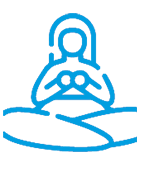
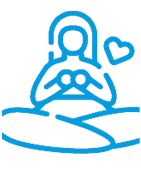
changes

diff --git a/freein-project/src/components/CardProfile/CardProfile-End.vue b/freein-project/src/components/CardProfile/CardProfile-End.vue
@@ -7,14 +7,14 @@
     <img class="img1" src="@/assets/Gourmet-Explorer.png" alt=""> 
   </div>
   <div class="circle2">
-    <img class="img2" src="@/assets/Relax.png" alt=""> 
+    <img class="img2" src="@/assets/donna.png" alt=""> 
   </div>
 </div>
 
     <div class="cards">
       <div class="arte">
         <div class="image1">
-          <img src="@/assets/Arte-&-Cultura.png" alt="">
+          <img src="@/assets/art.png" alt="">
         </div>
         <div class="cardcontainer1">
           <p>Arte & Cultura</p> 
@@ -38,7 +38,7 @@
       </div>
       <div class="relax">
         <div class="image3">
-          <img src="@/assets/Relax.png" alt="">
+          <img src="@/assets/relax.png" alt="">
         </div>
         <div class="cardcontainer2">
           <p>Relax</p> 
@@ -67,6 +67,11 @@
         <div class="text">
           <p>Lorem, ipsum dolor sit amet consectetur adipisicing elit. Neque rerum architecto officia necessitatibus vel dolorum provident quod ex atque magnam porro vero ratione, dolore accusantium!</p>
         </div>
+
+        <div class="button1">
+          <a href="#" class="button">portami alla mia hall</a>
+        </div>
+        
 </div>
 </template>
 
@@ -103,10 +108,10 @@ h1 {
   margin-top: 40px;
 }
 .img2 {
-  width: 131px;
+  width: 181px;
   height: 170px;
-  margin-left: 45px;
-  margin-top: 15px;
+  margin-left: 25px;
+  margin-top: 25px;
 }
 .cards {
   display: flex;
@@ -210,6 +215,27 @@ img {
   text-align: justify;
   margin-left: 320px;
   margin-right: 318px;
+}
+
+.button1 {
+  display: flex;
+  justify-content: center;
+  margin-top: 35px;
+}
+.button {
+  background-color: #ea5b0c;
+  border: none;
+  border-radius: 10px;
+  color: white;
+  padding: 15px 32px;
+  text-align: center;
+  text-transform: uppercase;
+  text-decoration: none;
+  display: inline-block;
+  font-size: 20px;
+  font-weight: bold;
+  margin: 4px 2px;
+  cursor: pointer;
 }
 </style>
 

diff --git a/freein-project/src/components/DashBoard/Dashboard1.vue b/freein-project/src/components/DashBoard/Dashboard1.vue
@@ -1,0 +1,110 @@
+<template>
+<div>
+
+<h1>il mio guadagno</h1>
+
+<div class="table1">
+    <table>
+      <tr>
+        <th>Pubblicazioni</th>
+        <th>Salvati</th>
+        <th>Mi piace</th>
+        <th>Guadagno</th>
+        <th>Valore in €</th>
+        <th>n.</th>
+      </tr>
+    
+      <tr>
+        <td>Itinerario</td>
+        <td>6</td>
+        <td>6</td>
+        <td>6 Passcoin</td>
+        <td>0,60</td>
+        <td>10</td>
+      </tr>
+    
+      <tr>
+        <td>Tappa</td>
+        <td>12</td>
+        <td>12</td>
+        <td>12 Passcoin</td>
+        <td>0,10</td>
+        <td>21</td>
+      </tr>
+    
+      <tr>
+        <td>Recensioni</td>
+        <td>1</td>
+        <td>1</td>
+        <td>1 Passcoin</td>
+        <td>0,05</td>
+        <td>3</td>
+      </tr>
+    </table>
+</div>
+
+<h1>La mia spesa</h1>
+
+<div class="table2">
+    <table>
+      <tr>
+        <th>Pubblicazioni</th>
+        <th>Vendita</th>
+        <th>Valore in €</th>
+        <th>n.</th>
+      </tr>
+    
+      <tr>
+        <td>Palio budget</td>
+        <td>6 Passcoin</td>
+        <td>0,60</td>
+        <td>10</td>
+      </tr>
+    
+      <tr>
+        <td>Investimento banner</td>
+        <td>12 Passcoin</td>
+        <td>0,10</td>
+        <td>21</td>
+      </tr>
+
+      <tr>
+        <td>Acquisti</td>
+        <td>1 Passcoin</td>
+        <td>0,05</td>
+        <td>3</td>
+      </tr>
+    </table>
+</div>
+
+</div>
+</template>
+
+<style scoped>
+h1 {
+    font-size: 24px;
+    color: white;
+    background: #ea5b0c;
+    padding-top: 10px;
+    padding-bottom: 10px;
+    padding-left: 60px;
+}
+td {
+  font-weight: bold;
+}
+table, td, th {  
+  border: 1px solid #ddd;
+  text-align: left;
+}
+
+table {
+  border-collapse: collapse;
+  width: 100%;
+}
+
+th, td {
+  padding: 15px;
+  padding-left: 60px;
+}
+</style>
+</style>

diff --git a/freein-project/src/components/CardProfile/CardProfile-Start.vue b/freein-project/src/components/CardProfile/CardProfile-Start.vue
@@ -5,7 +5,7 @@
     <div class="cards">
       <div class="arte">
         <div class="image1">
-          <img src="@/assets/Arte-&-Cultura.png" alt="">
+          <img src="@/assets/art.png" alt="">
         </div>
         <div class="cardcontainer1">
           <p>Arte & Cultura</p> 
@@ -29,7 +29,7 @@
       </div>
       <div class="relax">
         <div class="image3">
-          <img src="@/assets/Relax.png" alt="">
+          <img src="@/assets/relax.png" alt="">
         </div>
         <div class="cardcontainer2">
           <p>Relax</p> 

diff --git a/freein-project/src/router/index.js b/freein-project/src/router/index.js
@@ -25,6 +25,7 @@ import Card13 from '../views/Card13.vue'
 import Card14 from '../views/Card14.vue'
 import Card15 from '../views/Card15.vue'
 import Card16 from '../views/Card16.vue'
+import Dashboard1 from '../views/Dashboard1.vue'
 
 
 Vue.use(VueRouter)
@@ -154,7 +155,13 @@ const routes = [{
         path: '/card16',
         name: 'Card16',
         component: Card16
+    },
+    {
+        path: '/dashboard1',
+        name: 'Dashboard1',
+        component: Dashboard1
     }
+
 
 
 ]

diff --git a/freein-project/src/views/Dashboard1.vue b/freein-project/src/views/Dashboard1.vue
@@ -1,0 +1,19 @@
+<template>
+  <div>
+    <Header />
+    <div class="container">
+      <dashboard1 />
+    </div>
+    <Footer />
+  </div>
+</template>
+
+<script>
+import dashboard1 from "../components/DashBoard/Dashboard1.vue";
+import Header from "../components/Header.vue";
+import Footer from "../components/Footer.vue";
+export default {
+  name: "Dashboard1",
+  components: { dashboard1, Header, Footer },
+};
+</script>
